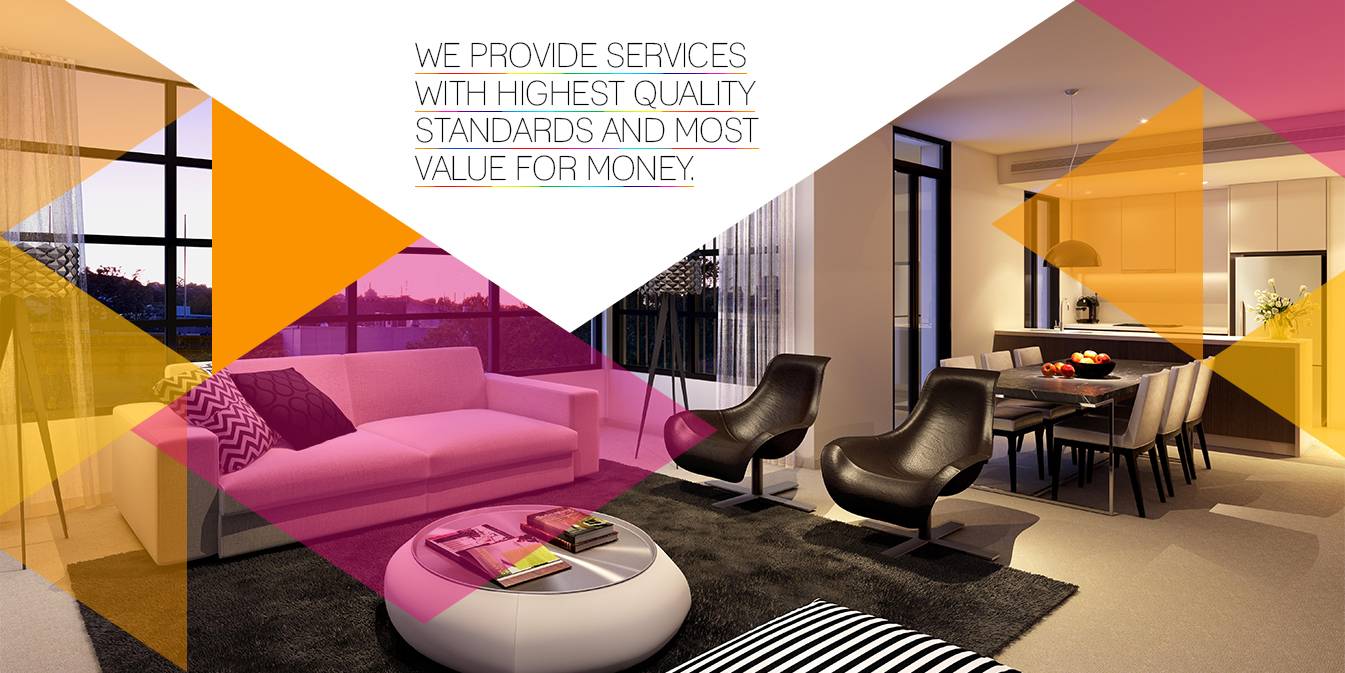
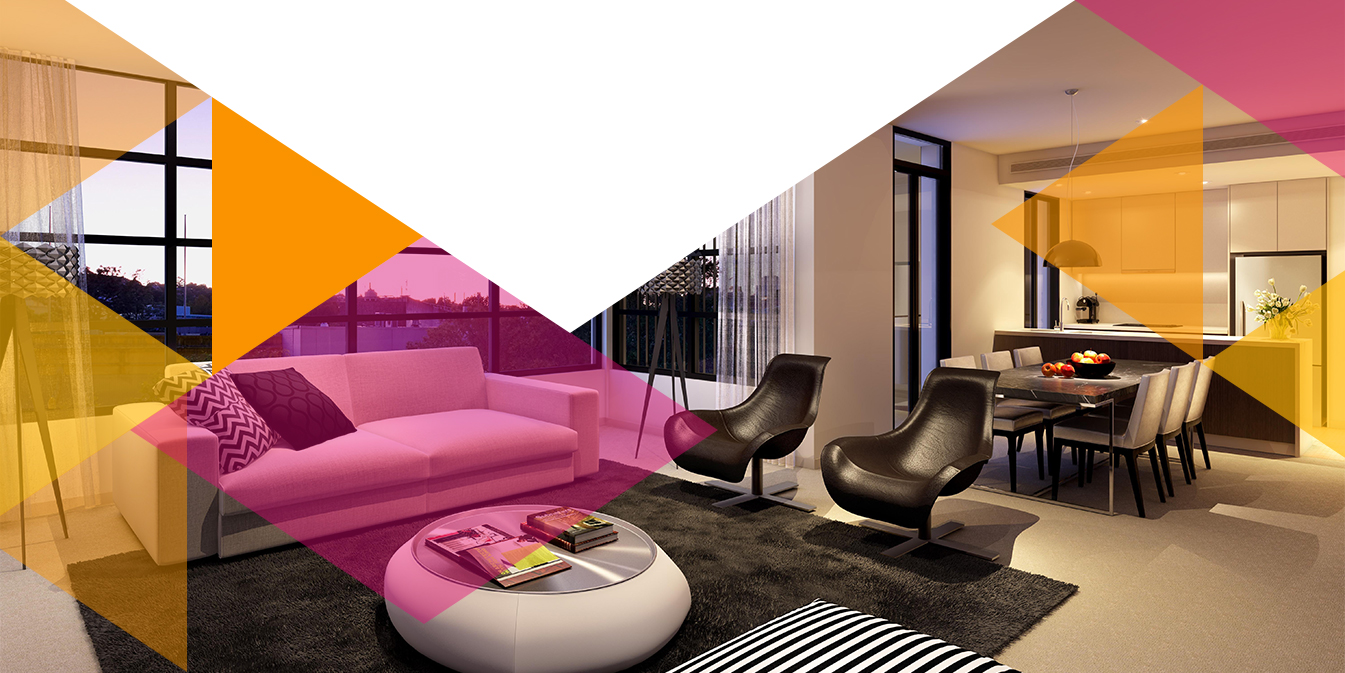
Updated data

Changed region(s): [[0.3123, 0.0624, 0.5621, 0.2808]]

diff --git a/index.html b/index.html
@@ -58,14 +58,16 @@
     <div class="header-inner">
       <!-- Header image -->
       <img src="assets/images/header-bg.jpg" alt="img">
-      <div class="header-overlay" style="display: none;">
+      <div class="header-overlay">
         <div class="header-content">
         <!-- Start header content slider -->
-        <h2 class="header-slide" style="display: none;">WE GENERATE
-          <span>MOST CREATIVE</span>
-          <span>MOST Design</span>
-          <span>MOST Valuable</span>
-          IDEA</h2>
+        <h2 class="header-slide">
+          <span>We provide services with highest quality standards and most value for money</span>
+          <span>We are committed to provide customized services to all our esteemed clients</span>
+          <span>We intend to provide the robust solutions for our corporate partners</span>
+          <span>Our focus is on developing Luxurious, Modern and Contemporary houses</span>
+          <span>We are specialized in comprehensive interiors which offer end to end solution</span>
+        </h2>
         <!-- End header content slider -->  
         <!-- Header btn area -->
         <div class="header-btn-area" style="display: none;">
@@ -97,7 +99,7 @@
           <ul id="top-menu" class="nav navbar-nav main-nav menu-scroll">
             <li class="active"><a href="index.html">Home</a></li>
             <li><a href="#about">ABOUT</a></li> 
-            <li><a href="#team">TEAM</a></li>                    
+            <li style="display: none;"><a href="#team">TEAM</a></li>                    
             <li><a href="#service">SERVICE</a></li> 
             <li><a href="#portfolio">PORTFOLIO</a></li>
             <li style="display: none;"><a href="#pricing-table">PRICE </a></li>             
@@ -211,7 +213,7 @@
   <!-- End call to action -->
 
   <!-- Start Team action -->
-  <section id="team">
+  <section id="team" style="display: none;">
     <div class="container">
       <div class="row">
         <div class="col-md-12">

diff --git a/style.css b/style.css
@@ -194,7 +194,7 @@ img{
 	width: 100%;
 }
 .header-overlay{
-	background-color: rgba(0, 0, 0, 0.6);
+	background-color: rgba(0, 0, 0, 0);
 	height: 100%;
 	left: 0;
 	position: absolute;
@@ -205,22 +205,23 @@ img{
 .header-content {
 	float: left;
 	height: 100%;
-	padding: 12% 140px 140px;
+	padding: 1.5% 180px 140px;
 	text-align: center;
-	width: 100%;
+	width: 85%;
 }
 .header-content h2 {
-	font-size: 80px;
+	font-size: 35px;
 	font-weight: bold;
 	text-transform: uppercase;
-	line-height: 80px;
+	line-height: 30px;
+	color: #000000;
 }
 .header-content h2 span {
 	font-weight: normal;
-	line-height: 93px;
+	line-height: 35px;
 }
 .header-btn-area{
-	margin-top: 90px;
+	margin-top: 300px;
 	float: left;
 	display: inline;
 	width: 100%;
